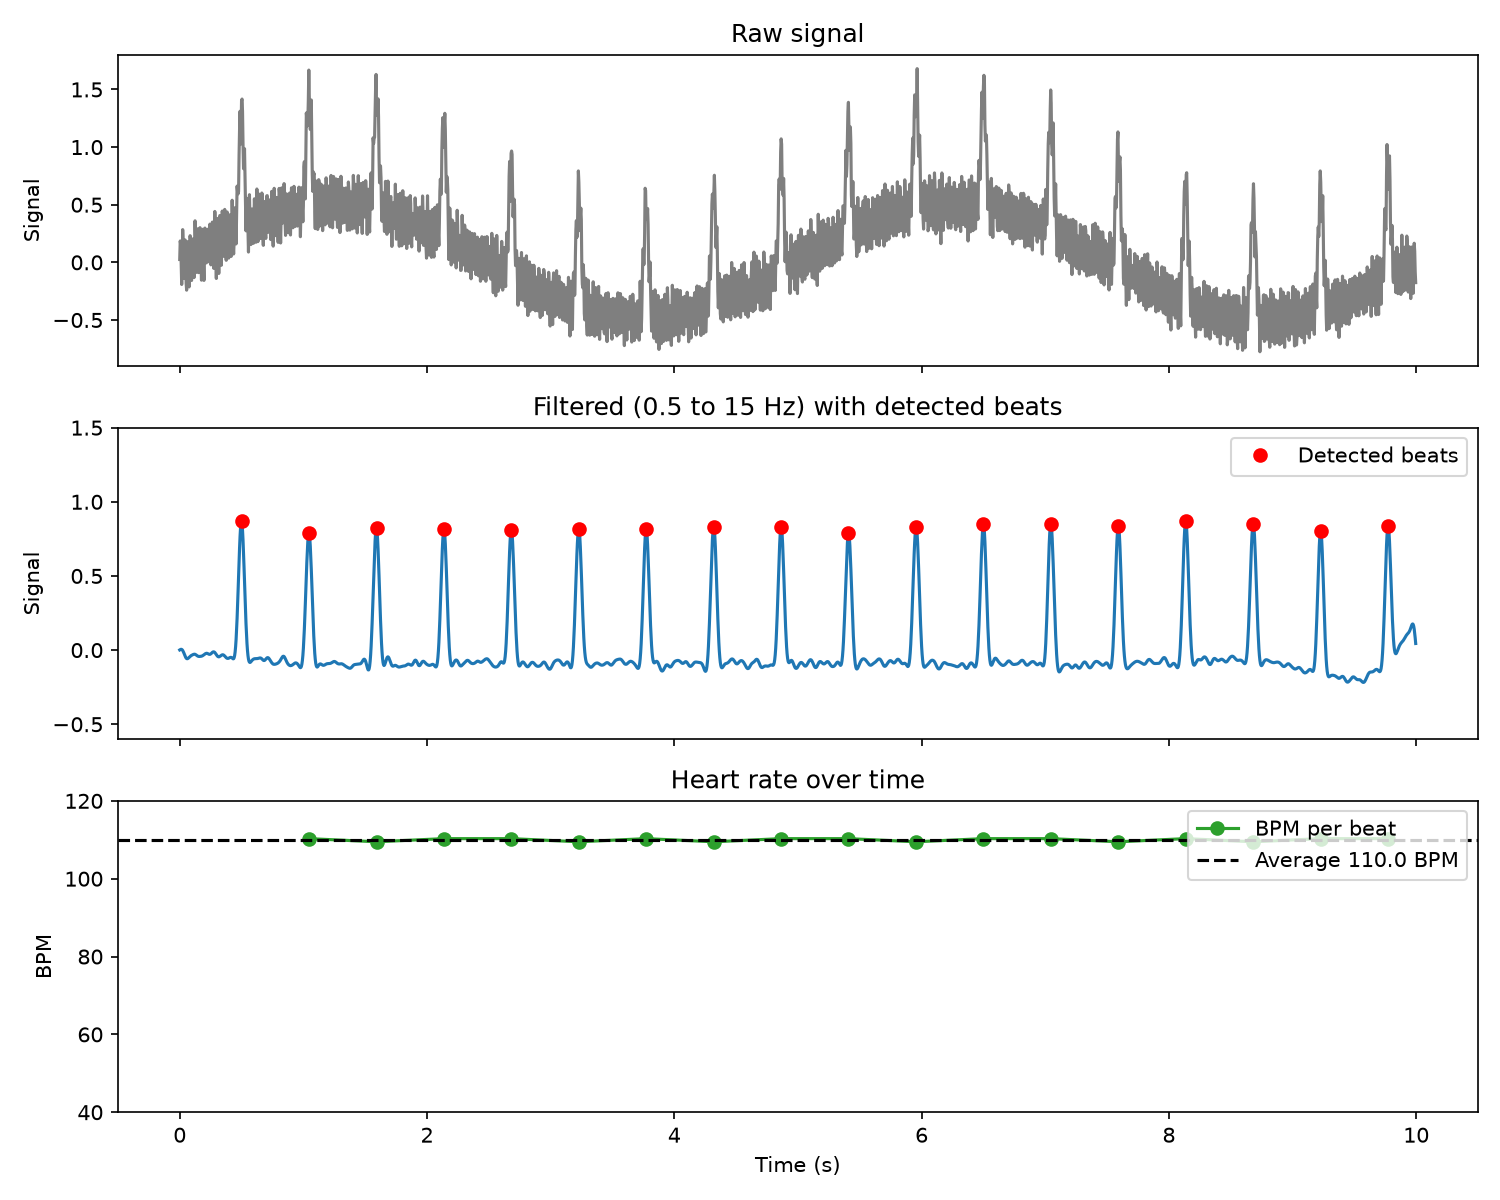
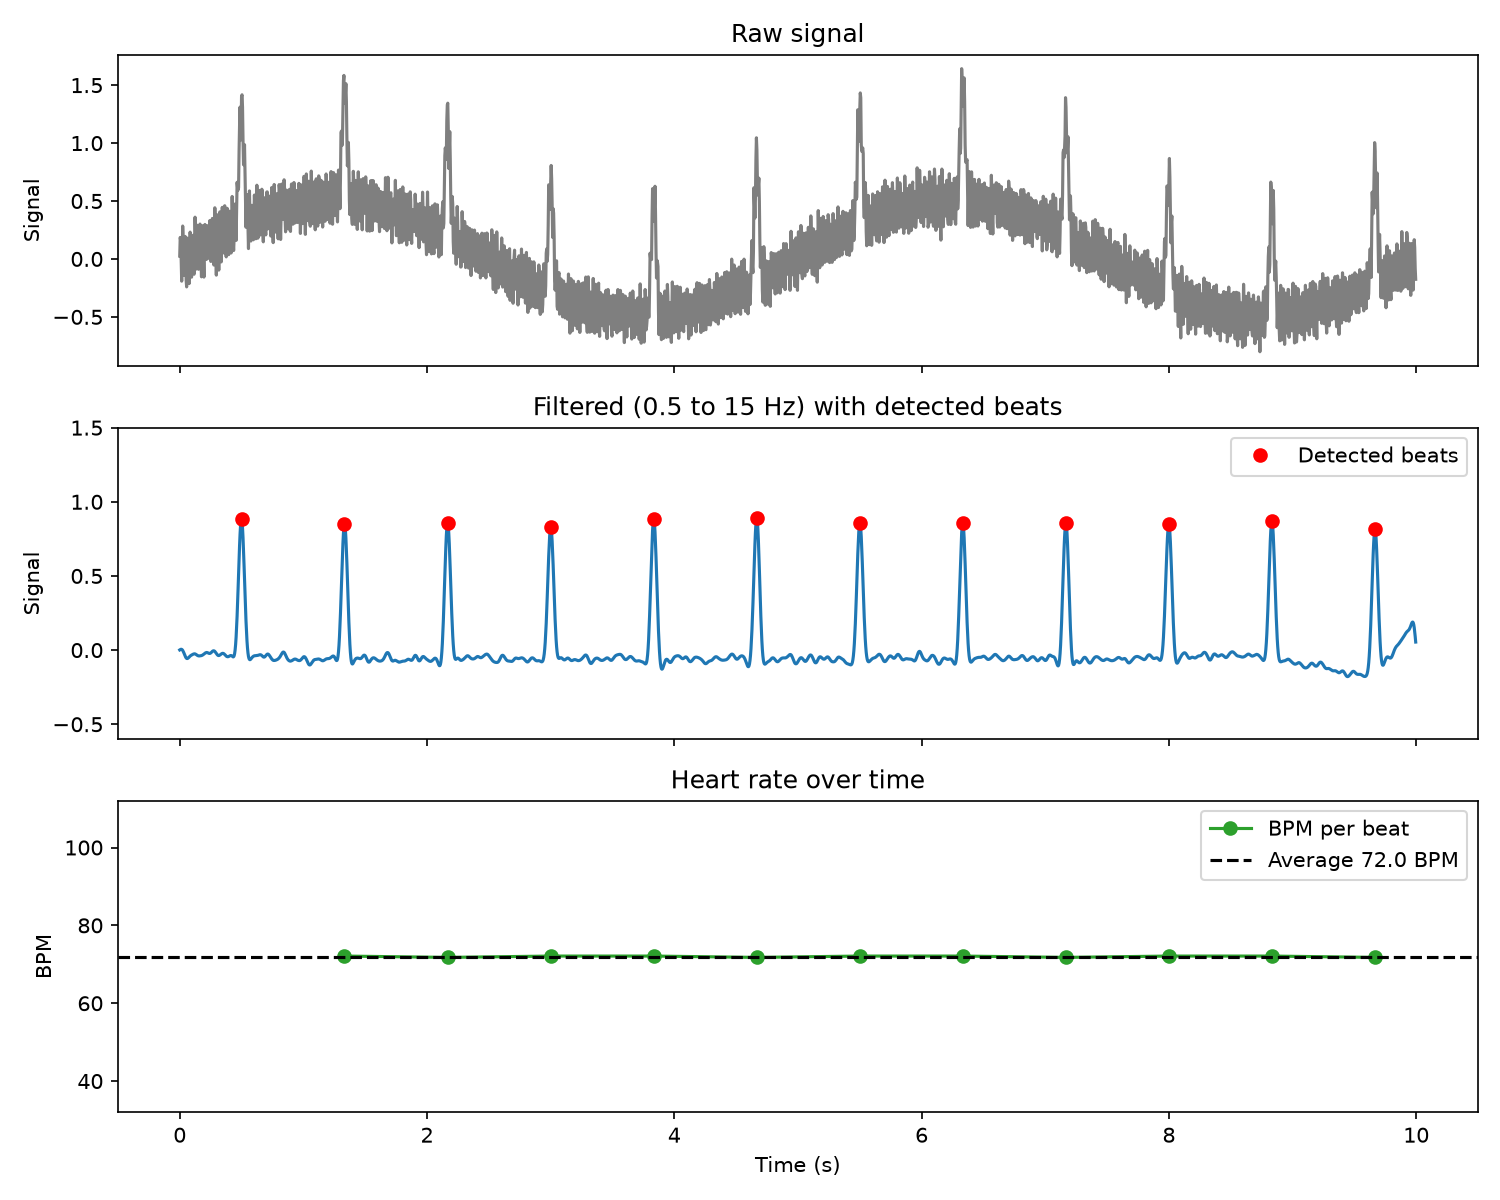
Add first tests

diff --git a/tests/test_main.py b/tests/test_main.py
@@ -1,0 +1,34 @@
+"""Tests for the heart-rate analyser."""
+
+import numpy as np
+import pytest
+
+from main import (
+    calculate_bpm,
+    filter_signal,
+    find_beats,
+    generate_signal,
+    load_signal,
+    save_signal,
+)
+
+
+def test_generate_signal_length():
+    """10 seconds at 250 Hz should give 2500 samples."""
+    t, signal = generate_signal(duration=10, sample_rate=250)
+    assert len(t) == 2500
+    assert len(signal) == 2500
+
+
+def test_calculate_bpm_known_answer():
+    """Beats exactly 1 second apart should give 60 BPM."""
+    peaks = np.array([0, 250, 500])
+    bpm, gaps = calculate_bpm(peaks, 250)
+    assert bpm == pytest.approx(60)
+    assert list(gaps) == [1.0, 1.0]
+
+
+def test_calculate_bpm_one_beat_exits():
+    """One beat has no gap, so the function should stop."""
+    with pytest.raises(SystemExit):
+        calculate_bpm(np.array([100]), 250)
